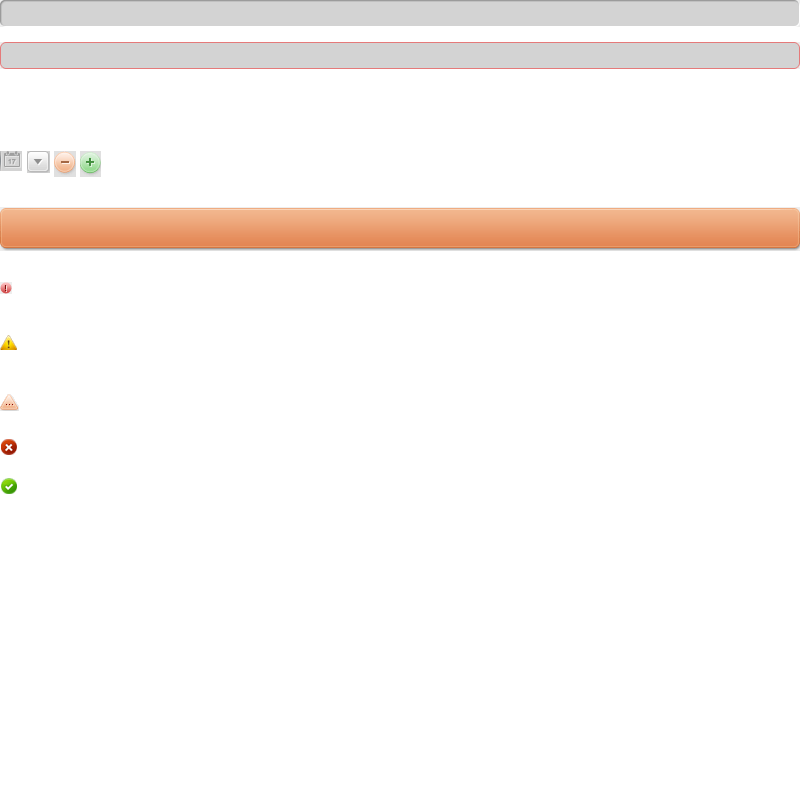
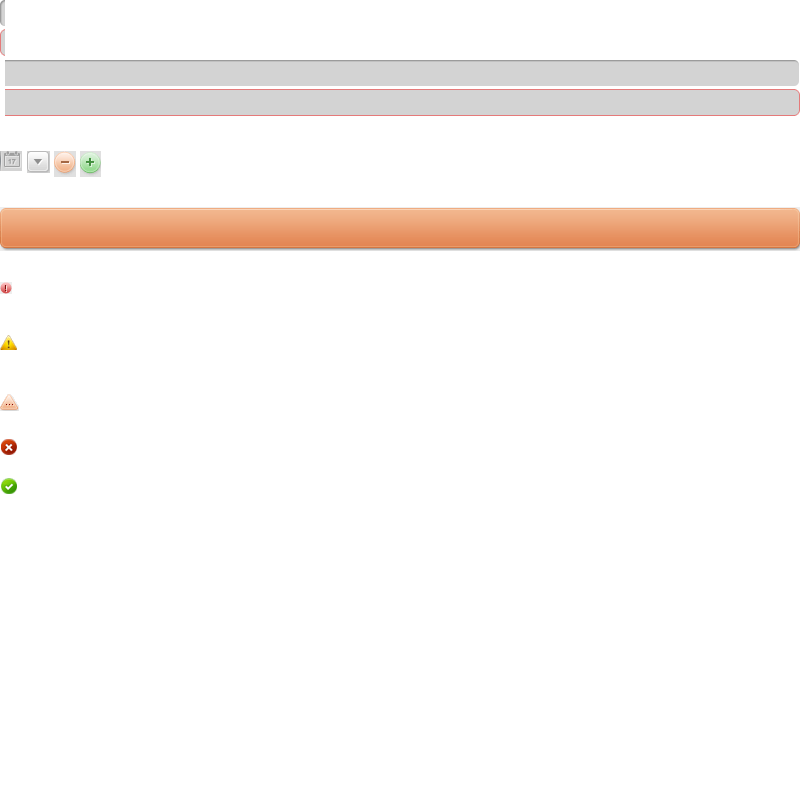
修缮select的毛边

Changed region(s): [[0.0, 0.0, 1.0, 0.1562]]

diff --git a/oa/assets/global.css b/oa/assets/global.css
@@ -120,10 +120,12 @@ a:hover {
 .unit h2 b.tips {
     font-size: 12px;
     color: #c35a1f;
-    margin-left: 2em;
     font-weight: normal;
     background: url(./img/form-fields.png) no-repeat;
     padding: 2px 0 3px 22px;
+    margin: 2px 0 0 1em;
+    vertical-align: top;
+    display: inline-block;
 }
 
 .unit h2 b.tips.warning {
@@ -151,6 +153,7 @@ a:hover {
     padding: 0 2px 2px 0;
     position: relative;
     top: -1px;
+    vertical-align: middle;
     color: #333;
 }
 
@@ -219,7 +222,7 @@ body .show h1.title b.control {
 }
 
 .text-field .field-content {
-    background: url(./img/form-fields.png) right 0;
+    background: url(./img/form-fields.png) right -60px;
     height: 27px;
 }
 
@@ -268,11 +271,11 @@ body .show h1.title b.control {
 }
 
 html .text-field.error {
-    background-position: 0 -42px;
+    background-position: 0 -29px;
 }
 
 html .text-field.error .field-content {
-    background-position: right -42px;
+    background-position: right -89px;
 }
 
 .smt button span {

diff --git a/oa/assets/global/select.js b/oa/assets/global/select.js
@@ -34,6 +34,7 @@ define(function (require, exports, module) {
         var options = '';
         for (var i = 0; i < select.length; i++) {
             var v = $.trim(select[i].replace(/\r\n/gmi, ''));
+            if (v.length < 1) continue;
             options += '<div title="' + v + '">' + v + '</div>';
         }
 
